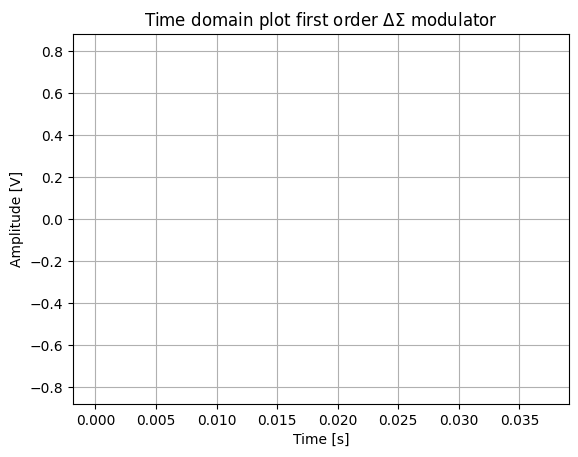
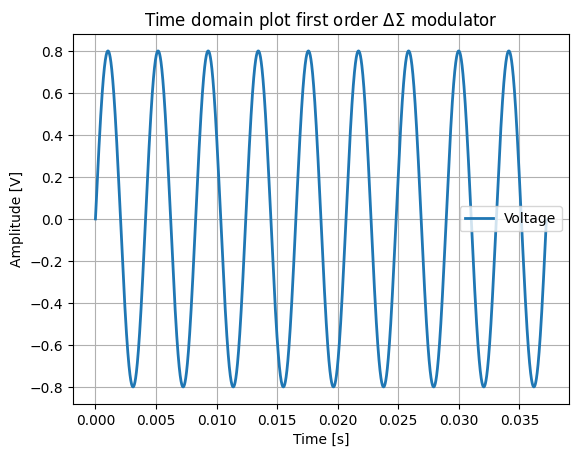
appended quarto guide

diff --git a/documentation/quarto_jupyter_guide/guide.html b/documentation/quarto_jupyter_guide/guide.html
@@ -194,8 +194,10 @@ Then the text continues in the next line.</p>
 </section>
 <section id="matlab-calls-or-data-calls-in-general-1" class="level2">
 <h2 class="anchored" data-anchor-id="matlab-calls-or-data-calls-in-general-1">Matlab calls or data calls in general</h2>
-<p>In the following, calls are made to the matlab files for first order modulator. All the data from simulation are stored in a seperate folder and can be accessed by just giving relative paths for further processing in python</p>
-<div id="cell-8" class="cell" data-execution_count="26">
+<p>In the following, calls are made to the matlab files for first order modulator.<br>
+THE DATA MUST BE EXPORTED BY RUNNING THE MATLAB SCRIPTS MANUALLY.<br>
+All the data from simulation are stored in a seperate folder and can be accessed by just giving relative paths for further processing in python</p>
+<div id="cell-8" class="cell" data-execution_count="33">
 <details class="code-fold">
 <summary>Code</summary>
 <div class="sourceCode cell-code" id="cb2"><pre class="sourceCode python code-with-copy"><code class="sourceCode python"><span id="cb2-1"><a href="#cb2-1" aria-hidden="true" tabindex="-1"></a><span class="im">import</span> numpy <span class="im">as</span> np</span>
@@ -212,15 +214,18 @@ Then the text continues in the next line.</p>
 <span id="cb2-12"><a href="#cb2-12" aria-hidden="true" tabindex="-1"></a><span class="co">#to access imported matlab data</span></span>
 <span id="cb2-13"><a href="#cb2-13" aria-hidden="true" tabindex="-1"></a>time <span class="op">=</span> time_domain[<span class="st">'t'</span>]</span>
 <span id="cb2-14"><a href="#cb2-14" aria-hidden="true" tabindex="-1"></a>voltage <span class="op">=</span> time_domain[<span class="st">'u'</span>]</span>
-<span id="cb2-15"><a href="#cb2-15" aria-hidden="true" tabindex="-1"></a></span>
-<span id="cb2-16"><a href="#cb2-16" aria-hidden="true" tabindex="-1"></a></span>
-<span id="cb2-17"><a href="#cb2-17" aria-hidden="true" tabindex="-1"></a>plt.figure(<span class="dv">1</span>)</span>
-<span id="cb2-18"><a href="#cb2-18" aria-hidden="true" tabindex="-1"></a>plt.plot(time,voltage, linewidth<span class="op">=</span><span class="dv">2</span>)</span>
-<span id="cb2-19"><a href="#cb2-19" aria-hidden="true" tabindex="-1"></a><span class="co">#plt.stairs(time,voltage)</span></span>
-<span id="cb2-20"><a href="#cb2-20" aria-hidden="true" tabindex="-1"></a>plt.title(<span class="st">'Time domain plot first order $\Delta \Sigma$ modulator'</span>)</span>
-<span id="cb2-21"><a href="#cb2-21" aria-hidden="true" tabindex="-1"></a>plt.xlabel(<span class="st">'Time [s]'</span>)</span>
-<span id="cb2-22"><a href="#cb2-22" aria-hidden="true" tabindex="-1"></a>plt.ylabel(<span class="st">'Amplitude [V]'</span>)</span>
-<span id="cb2-23"><a href="#cb2-23" aria-hidden="true" tabindex="-1"></a>plt.grid()</span></code><button title="Copy to Clipboard" class="code-copy-button"><i class="bi"></i></button></pre></div>
+<span id="cb2-15"><a href="#cb2-15" aria-hidden="true" tabindex="-1"></a>the_other <span class="op">=</span> time_domain[<span class="st">'v'</span>]</span>
+<span id="cb2-16"><a href="#cb2-16" aria-hidden="true" tabindex="-1"></a>the_other_mod <span class="op">=</span> np.append(the_other[<span class="dv">0</span>], <span class="dv">1</span>)</span>
+<span id="cb2-17"><a href="#cb2-17" aria-hidden="true" tabindex="-1"></a></span>
+<span id="cb2-18"><a href="#cb2-18" aria-hidden="true" tabindex="-1"></a>plt.figure(<span class="dv">1</span>)</span>
+<span id="cb2-19"><a href="#cb2-19" aria-hidden="true" tabindex="-1"></a>plt.plot(time[<span class="dv">0</span>], voltage[<span class="dv">0</span>], linewidth<span class="op">=</span><span class="dv">2</span>, label<span class="op">=</span><span class="st">'Voltage'</span>)</span>
+<span id="cb2-20"><a href="#cb2-20" aria-hidden="true" tabindex="-1"></a><span class="co">#plt.stairs(time[0], the_other_mod)</span></span>
+<span id="cb2-21"><a href="#cb2-21" aria-hidden="true" tabindex="-1"></a><span class="co">#plt.axis([min(time).any(), max(time).any()/8, 1.1*min(the_other_mod).any(), 1.1*max(the_other_mod).any()])</span></span>
+<span id="cb2-22"><a href="#cb2-22" aria-hidden="true" tabindex="-1"></a>plt.title(<span class="st">'Time domain plot first order $\Delta \Sigma$ modulator'</span>)</span>
+<span id="cb2-23"><a href="#cb2-23" aria-hidden="true" tabindex="-1"></a>plt.xlabel(<span class="st">'Time [s]'</span>)</span>
+<span id="cb2-24"><a href="#cb2-24" aria-hidden="true" tabindex="-1"></a>plt.ylabel(<span class="st">'Amplitude [V]'</span>)</span>
+<span id="cb2-25"><a href="#cb2-25" aria-hidden="true" tabindex="-1"></a>plt.legend()</span>
+<span id="cb2-26"><a href="#cb2-26" aria-hidden="true" tabindex="-1"></a>plt.grid()</span></code><button title="Copy to Clipboard" class="code-copy-button"><i class="bi"></i></button></pre></div>
 </details>
 <div class="cell-output cell-output-display">
 <div>

diff --git a/zip_meiners/behav/dsm_l1/dsm_l1_sim.m b/zip_meiners/behav/dsm_l1/dsm_l1_sim.m
@@ -96,7 +96,8 @@ xlabel('Frequency f/fs')
 ylabel('DFT Magnitude in dBFS')
 grid;
 
-save("./zip_meiners/behav/dsm_l1/data/dat_spectral_analysis1.mat", "t", "v")
+% Export data for further processing
+save("./zip_meiners/behav/dsm_l1/data/dat_spectral_analysis1.mat", "f", "sqdBFS")
 %% Spectral analysis, delsig toolbox
 
 % Normalize magnitudes to full-scale (FS=nLev-1=1) 
@@ -110,6 +111,7 @@ grid on;
 ylabel('dBFS');
 xlabel('f/fs')
 
+% Export data for further processing
 save("./zip_meiners/behav/dsm_l1/data/dat_spectral_analysis2.mat", "t", "v")
 %% Windowed plot
 specHW = fft(v.*ds_hann(N))/(N/4);
@@ -122,4 +124,5 @@ grid on;
 ylabel('dBFS');
 xlabel('f/fs');
 
+% Export data for further processing
 save("./zip_meiners/behav/dsm_l1/data/dat_windowed_plot.mat", "t", "v")
